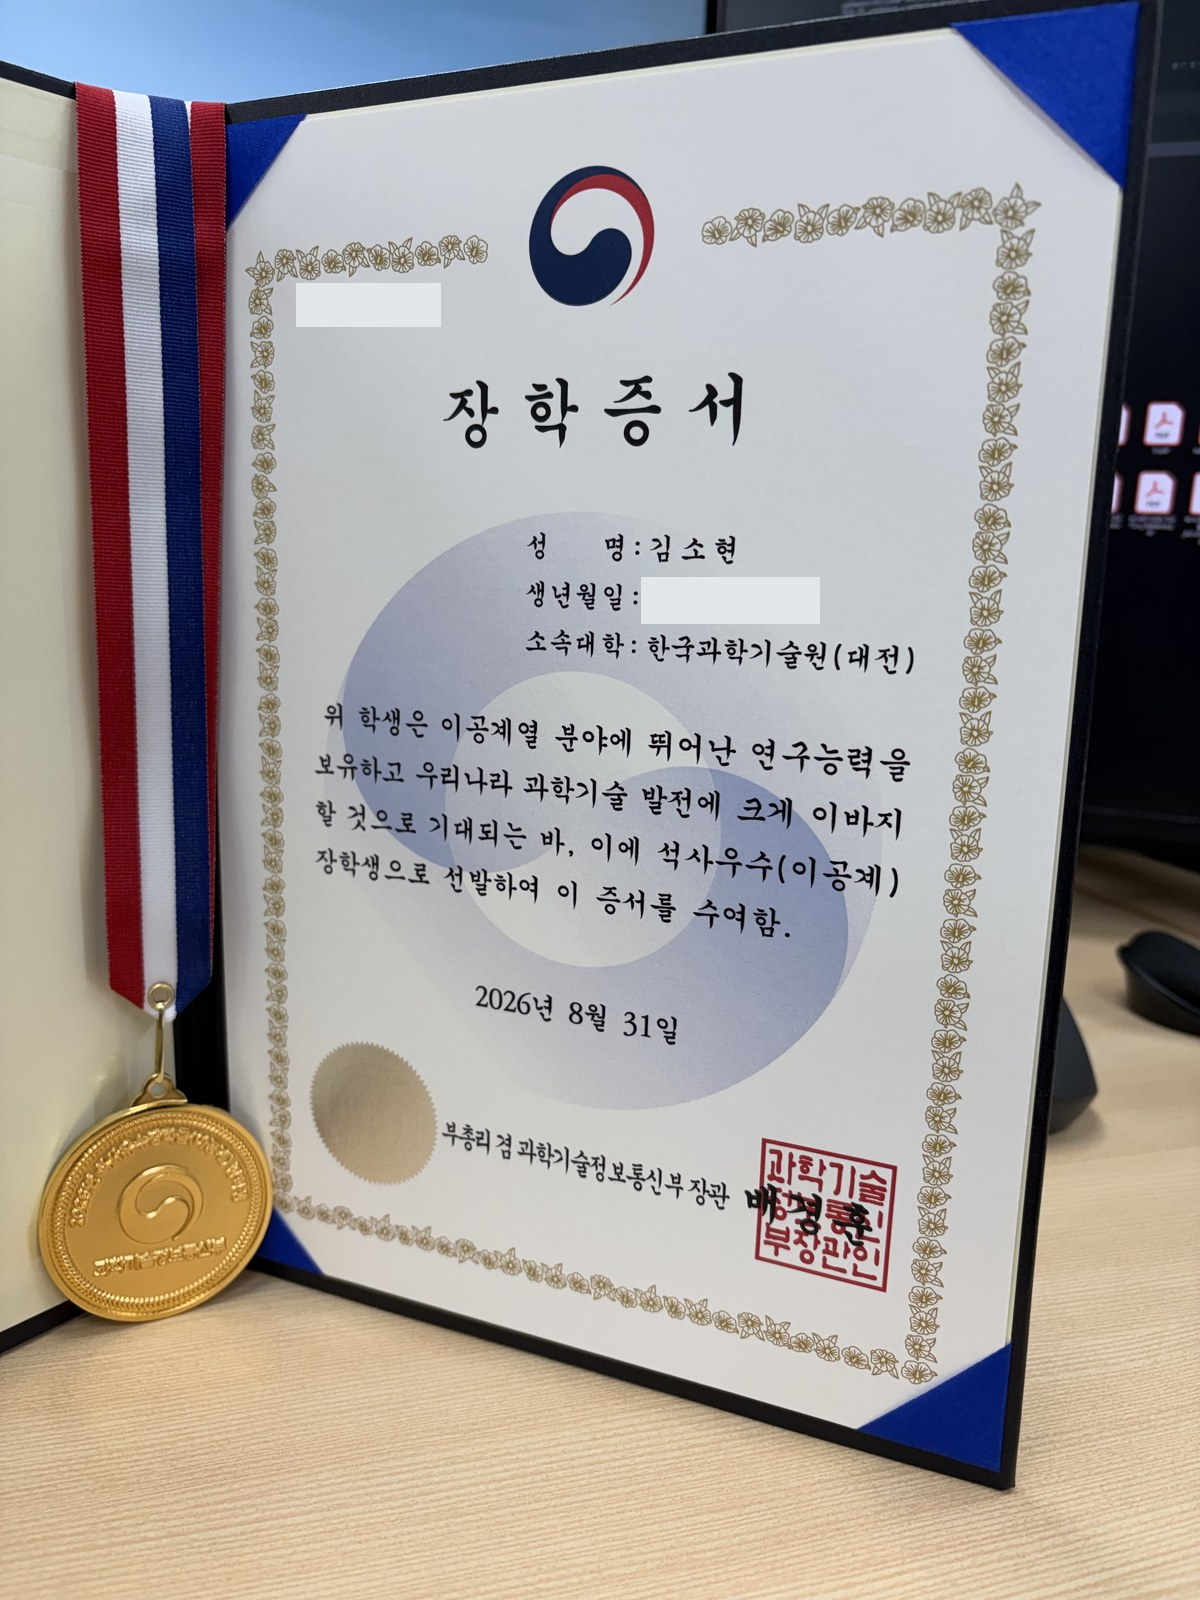
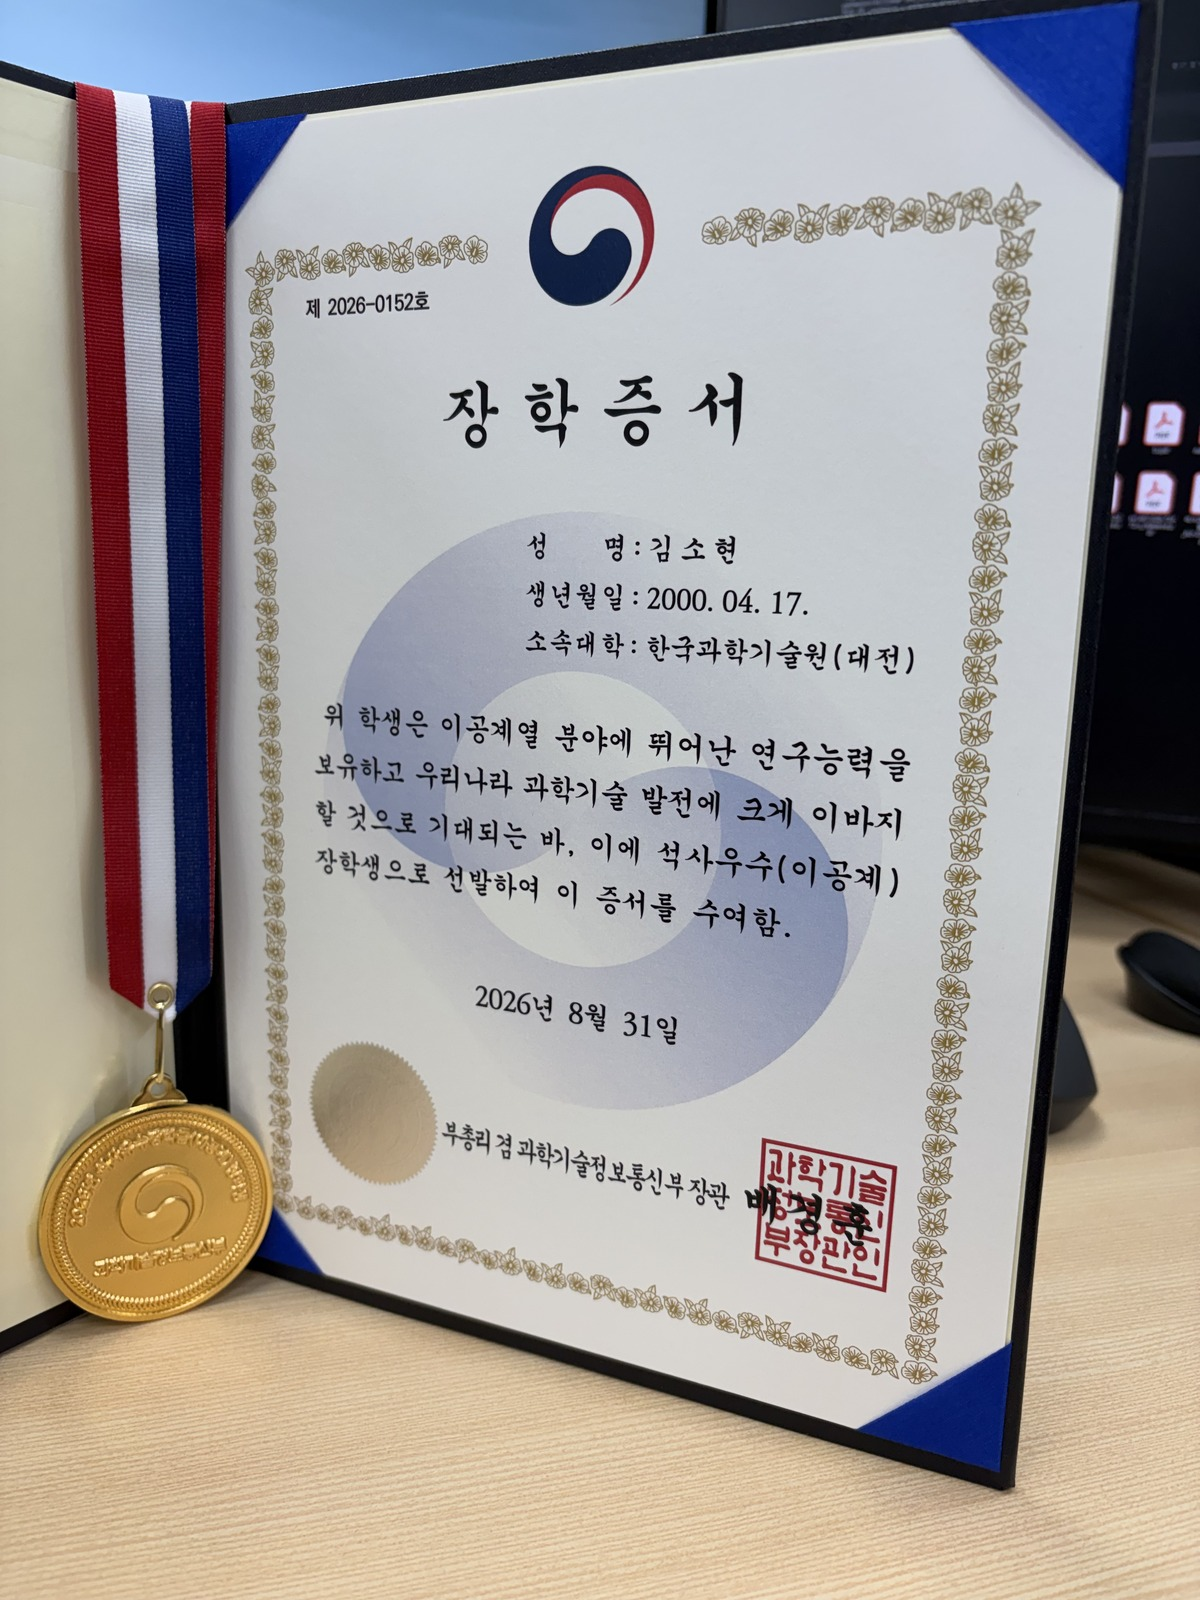
Restore award certificates without redactions

Changed region(s): [[0.5242, 0.3438, 0.6783, 0.4062], [0.2467, 0.1562, 0.37, 0.2188]]

diff --git a/index.html b/index.html
@@ -84,9 +84,9 @@
         </div>
         <details class="awards" open><summary>Awards &amp; scholarships <span>4</span><svg viewBox="0 0 16 16" fill="none" aria-hidden="true"><path d="m4 6 4 4 4-4"/></svg></summary>
           <ul class="award-list">
-            <li data-image="awards/masters-excellence-scholarship/certificate.jpg" data-image-alt="Master's Excellence Scholarship certificate, with personal identifiers hidden."><span class="date">2025 — 2027</span><div class="award-body"><strong>Master's Excellence Scholarship (Science and Engineering)</strong><p>Ministry of Science and ICT, Korea</p></div></li>
-            <li data-image="awards/national-science-technology-scholarship/certificate.jpg" data-image-alt="National Science and Technology Scholarship certificate, with personal identifiers hidden."><span class="date">2023 — 2025</span><div class="award-body"><strong>National Science &amp; Technology Scholarship</strong><p>Full scholarship · Ministry of Science and ICT, Korea</p></div></li>
-            <li data-image="awards/ev-energy-challenger/certificate.jpg" data-image-alt="Top Excellence Award certificate for the CA:ME team at the second EV Energy Challenger."><span class="date">2023</span><div class="award-body"><strong>Top Excellence Award, 2nd EV Energy Challenger</strong><p>Korea Energy Agency · Team award</p></div></li>
+            <li data-image="awards/masters-excellence-scholarship/certificate.jpg?v=original-20261025" data-image-alt="Master's Excellence Scholarship certificate."><span class="date">2025 — 2027</span><div class="award-body"><strong>Master's Excellence Scholarship (Science and Engineering)</strong><p>Ministry of Science and ICT, Korea</p></div></li>
+            <li data-image="awards/national-science-technology-scholarship/certificate.jpg?v=original-20261025" data-image-alt="National Science and Technology Scholarship certificate."><span class="date">2023 — 2025</span><div class="award-body"><strong>National Science &amp; Technology Scholarship</strong><p>Full scholarship · Ministry of Science and ICT, Korea</p></div></li>
+            <li data-image="awards/ev-energy-challenger/certificate.jpg?v=original-20261025" data-image-alt="Top Excellence Award certificate for the CA:ME team at the second EV Energy Challenger."><span class="date">2023</span><div class="award-body"><strong>Top Excellence Award, 2nd EV Energy Challenger</strong><p>Korea Energy Agency · Team award</p></div></li>
             <li><span class="date">2019, 2022</span><div class="award-body"><strong>Academic Excellence Scholarships</strong><p>Chung-Ang University · Top of class in September 2022</p></div></li>
           </ul>
         </details>

diff --git a/README.md b/README.md
@@ -40,7 +40,7 @@ awards/
 └── academic-excellence-scholarships/      # 현재 그림 없음
 ```
 
-그림이 없는 폴더의 `.gitkeep`는 빈 폴더를 Git에 남겨 두는 파일입니다. 그림을 넣기 전까지 그대로 두면 됩니다. 새 상장은 생년월일과 증서번호를 가린 공개용 `certificate.jpg`를 사용합니다.
+그림이 없는 폴더의 `.gitkeep`는 빈 폴더를 Git에 남겨 두는 파일입니다. 그림을 넣기 전까지 그대로 두면 됩니다. 상장 사진은 내용을 가리지 않은 `certificate.jpg`를 사용합니다.
 
 ## 3. 연구 그림 추가·교체
 
